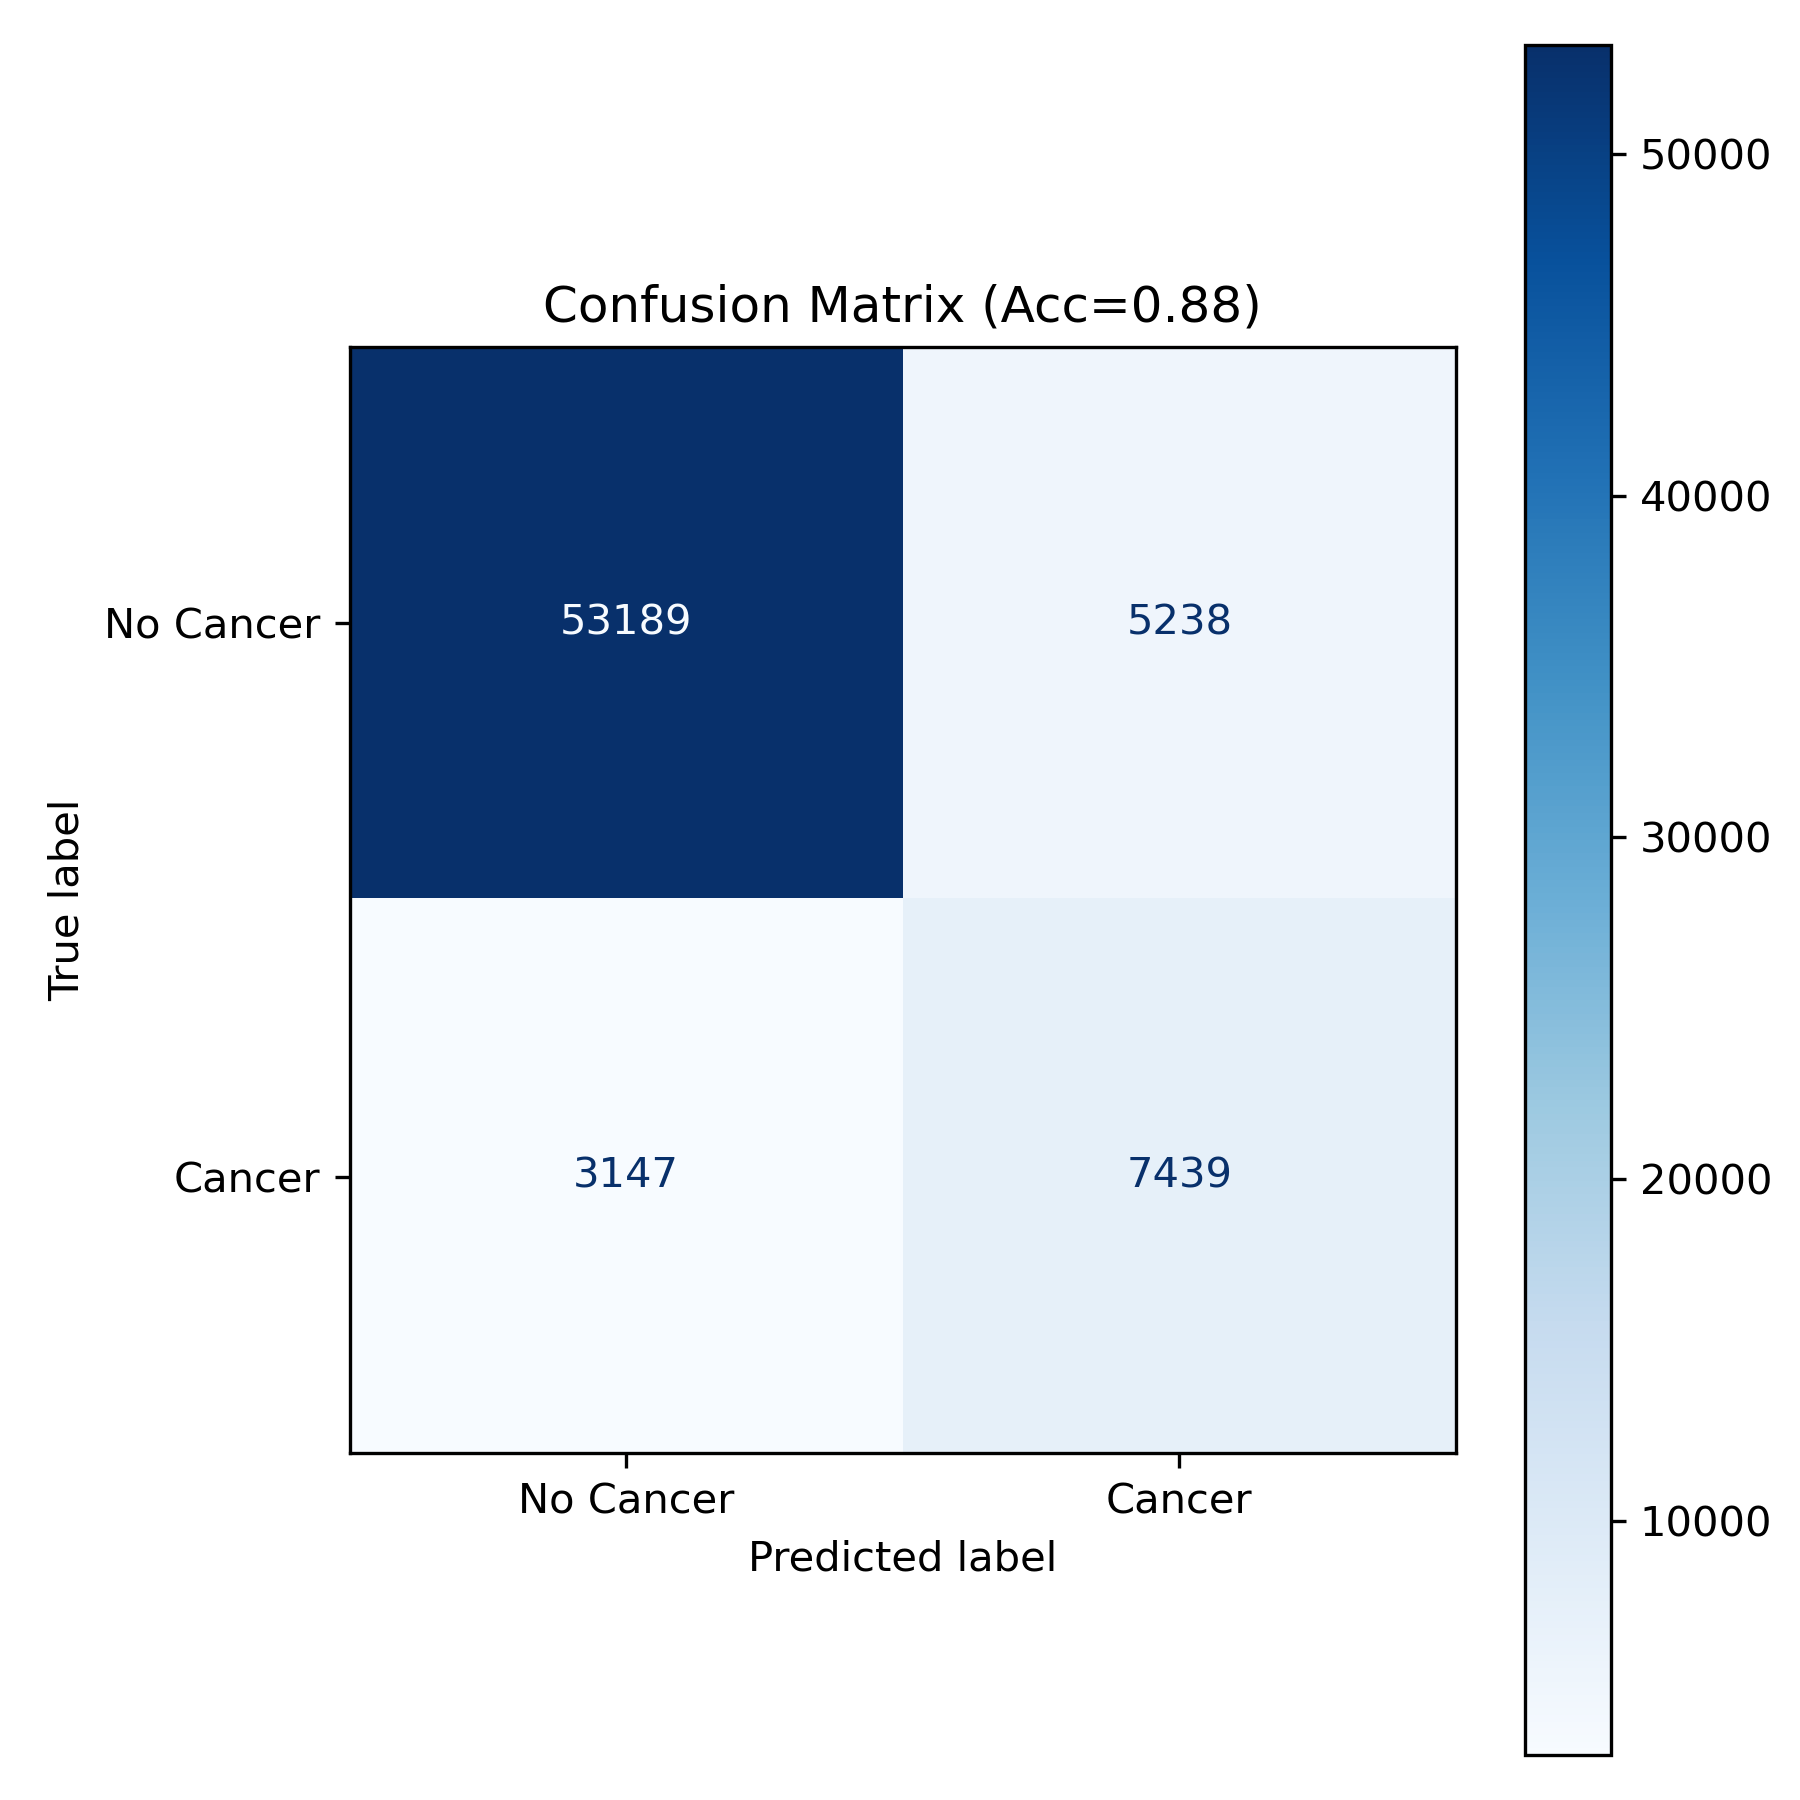
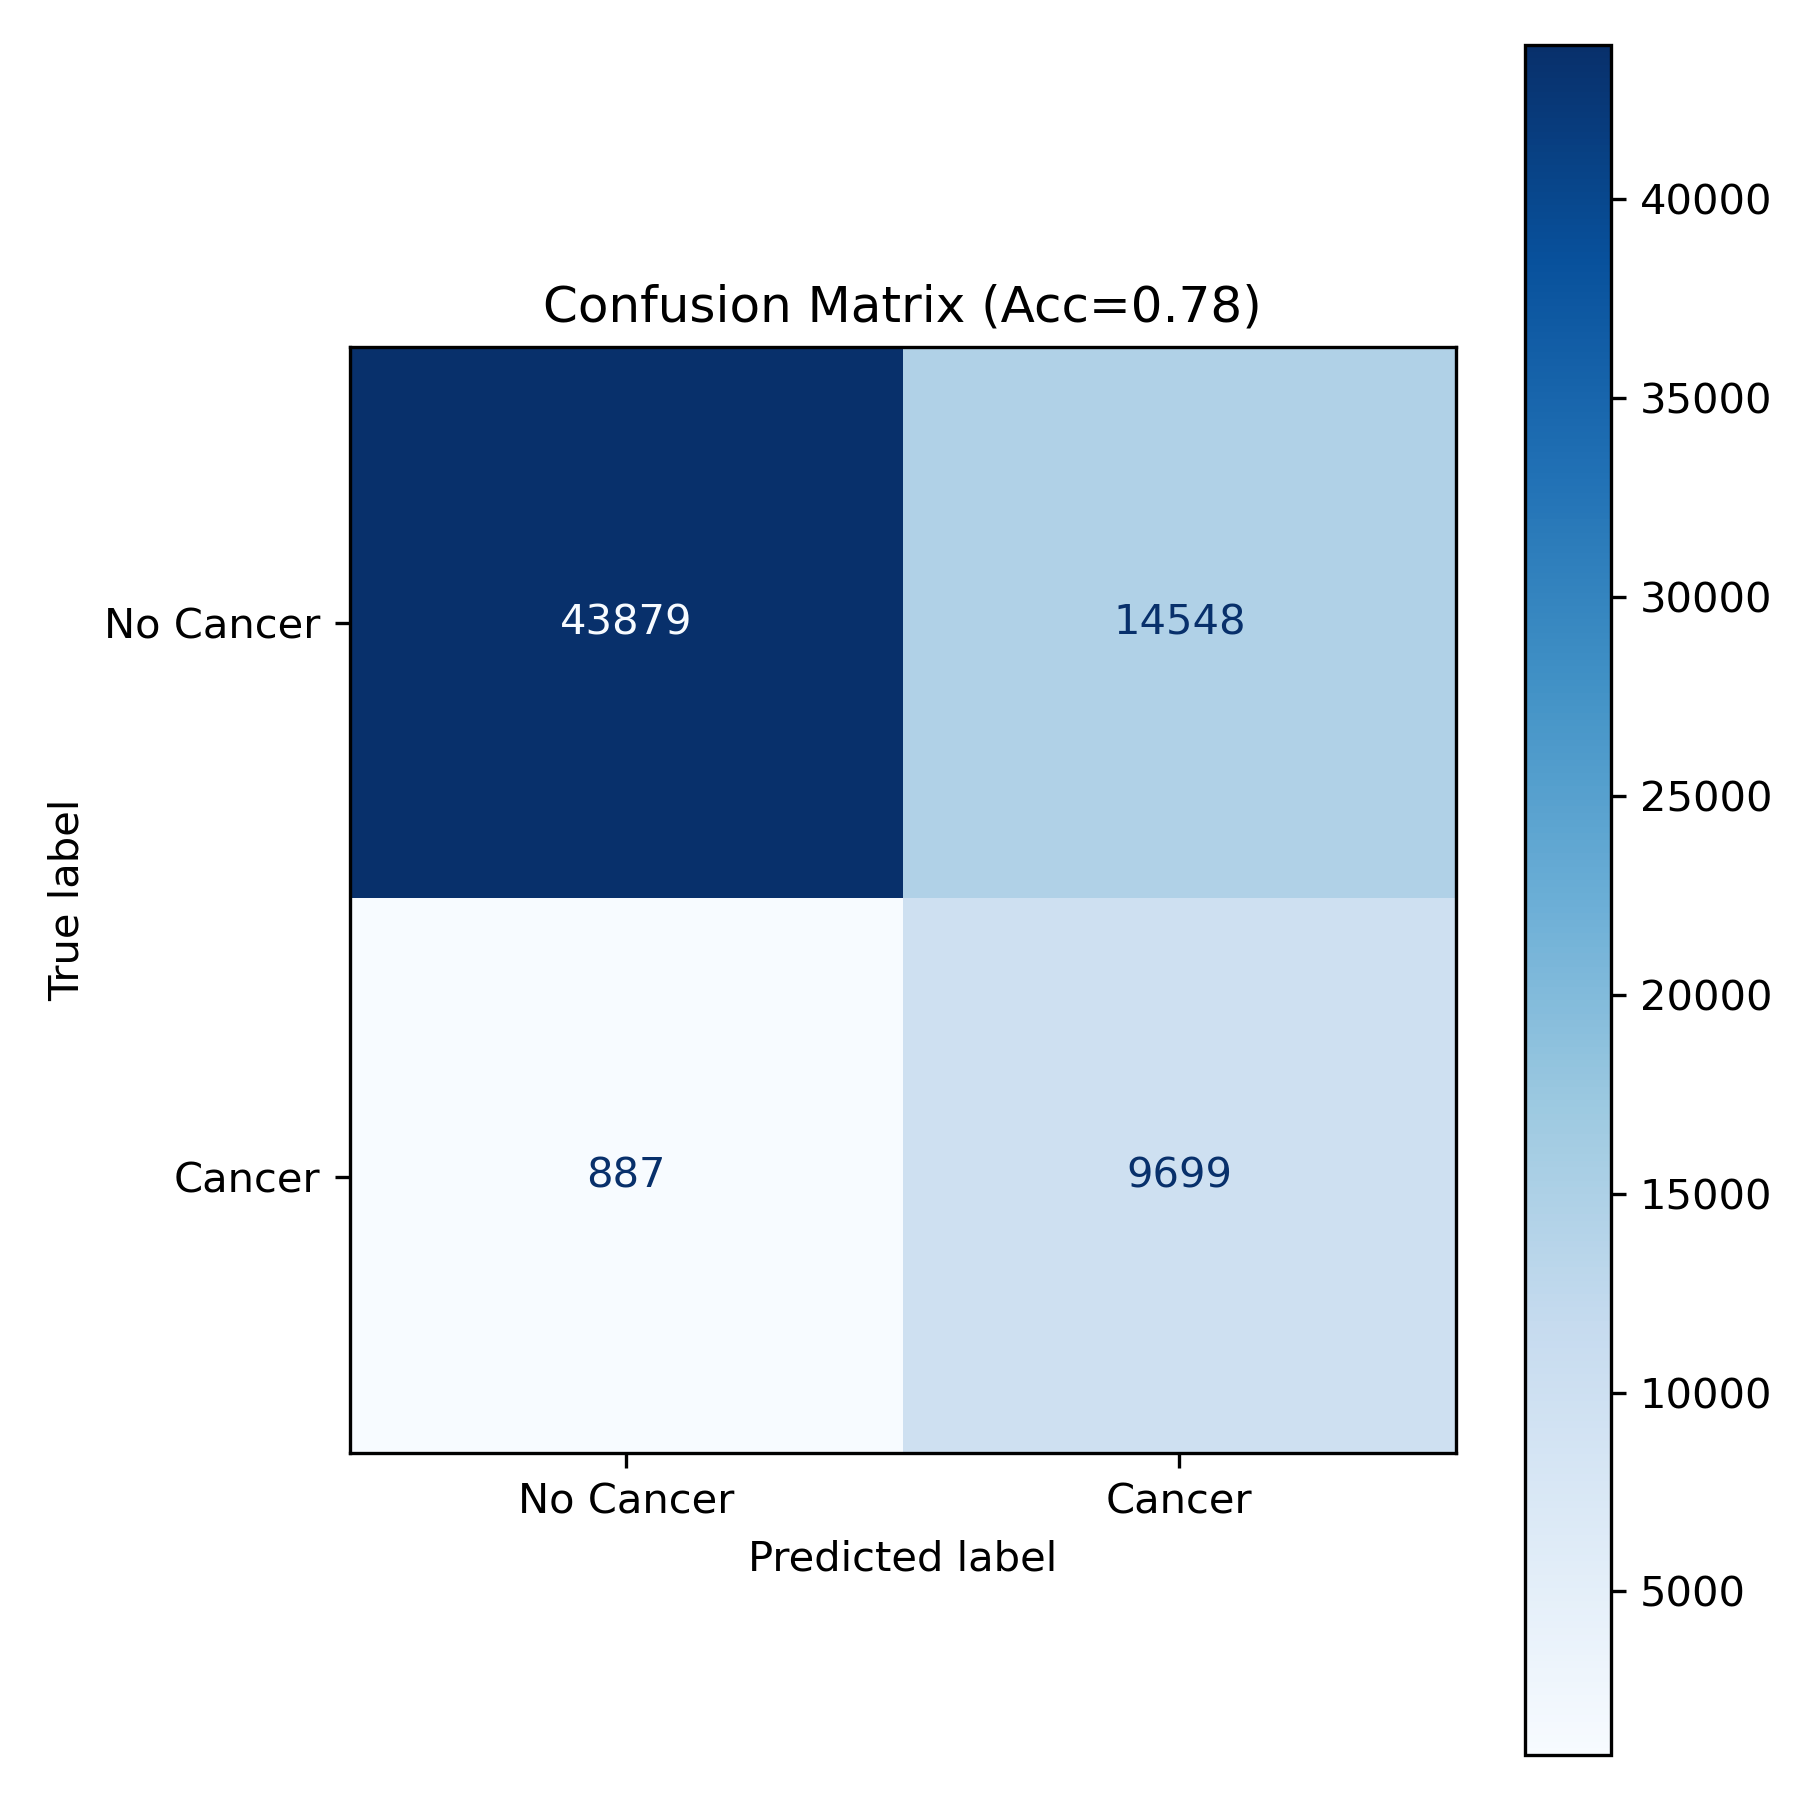
added more information in read me

diff --git a/README.md b/README.md
@@ -2,25 +2,25 @@
 
 **Overview**
 
-This repository contains the codebook for a comprehensive application designed to educate individuals about breast cancer risk factors, provide interactive health activity tracking, and facilitate access to support groups. The platform leverages a machine learning model built with XGBoost to predict individual risk of developing breast cancer using data from the Breast Cancer Surveillance Consortium (BCSC), which provides de-identified patient data including demographics, clinical risk factors and screening outcomes. The data can be downloaded from https://www.bcsc-research.org/index.php/datasets/rf/ with subjecting to data use agreement.
-
-**Features**
-- Risk Prediction Model: An XGBoost classification model trained on BCSC data to estimate probability of developing breast cancer.
-- Educational content: Informative videos covering healthy activities, diet recommendation for cancer patients
-- Health Activity Tracker: A user-friendly component to log daily health activities and visualize progress during the day and over time.
-- Support Links: list of local and national support groups, legal and financial counseling services and peer-based recovery support groups.
-To use the application, click the link https://breastcancerapp-dollada.streamlit.app/
+This repository contains code books for a comprehensive application designed to educate individuals about breast cancer risk factors, provide interactive health activity tracking, and facilitate access to support groups. The platform leverages a machine learning model built with XGBoost to predict individual risk of developing breast cancer using data from the Breast Cancer Surveillance Consortium (BCSC), which provides de-identified patient data including demographics, clinical risk factors and screening outcomes. The data can be downloaded from https://www.bcsc-research.org/index.php/datasets/rf/ with subjecting to data use agreement.
 
 **Getting Started**
 *Prerequisites*
--Python 3.8 or higher
+-Python3 or higher
 
-**Model Training and Evaluation**
+** Data**
+- File: bcsc_concatenated_no_9.csv
+- Description: Patient records with clinical, demographic features
+- *Target Column*: breast_cancer_history (binary:0 = no cancer, 1 = cancer history)
 
+**Model Training**
+An XGBoost classifier was augmented with SMOTE oversampling the minority class to predict probability of breast cancer based on demographic and clinical features.
+
+**Threshold Selection**
+A Precision-Recall curve was computed form a test dataset to find a threshold to achieve Precision > 0.40 and Recall > 0.9 to minimize false negative number.
 
 **Model Evaluation**
-
-Generates performance metrics including AUC, accuracy, precision, recall, and feature importance plots.
+The chosen model was evaluated by plotting multiple performance metrics including AUC, accuracy, precision, recall, confusion matrix at chosen threshold, and feature importance plots
 
 **Web Application**
 
@@ -28,6 +28,15 @@ The web application serves three main components:
 
 -*1. Risk Calculator*: Users can input personal risk factors to receive an individualized risk probability.
 
--*2. Activity Tracker*: Interactive dashboard for logging and visualizing health activities. and educational Hub providing videos organized by topic.
+-*2. Activity Tracker*: Interactive dashboard for logging health activities. and educational part providing videos organized by topic.
 
 -*3. List of local and National support groups*: A curated list of organizations and communities to navigate through cancer treatment and recovery journey.
+
+To use the application, click the link https://breastcancerapp-dollada.streamlit.app/
+
+
+****License****
+This project is released under the MIT License.
+
+Developed by Dollada Srisai
+Last updated: June 28, 2025
